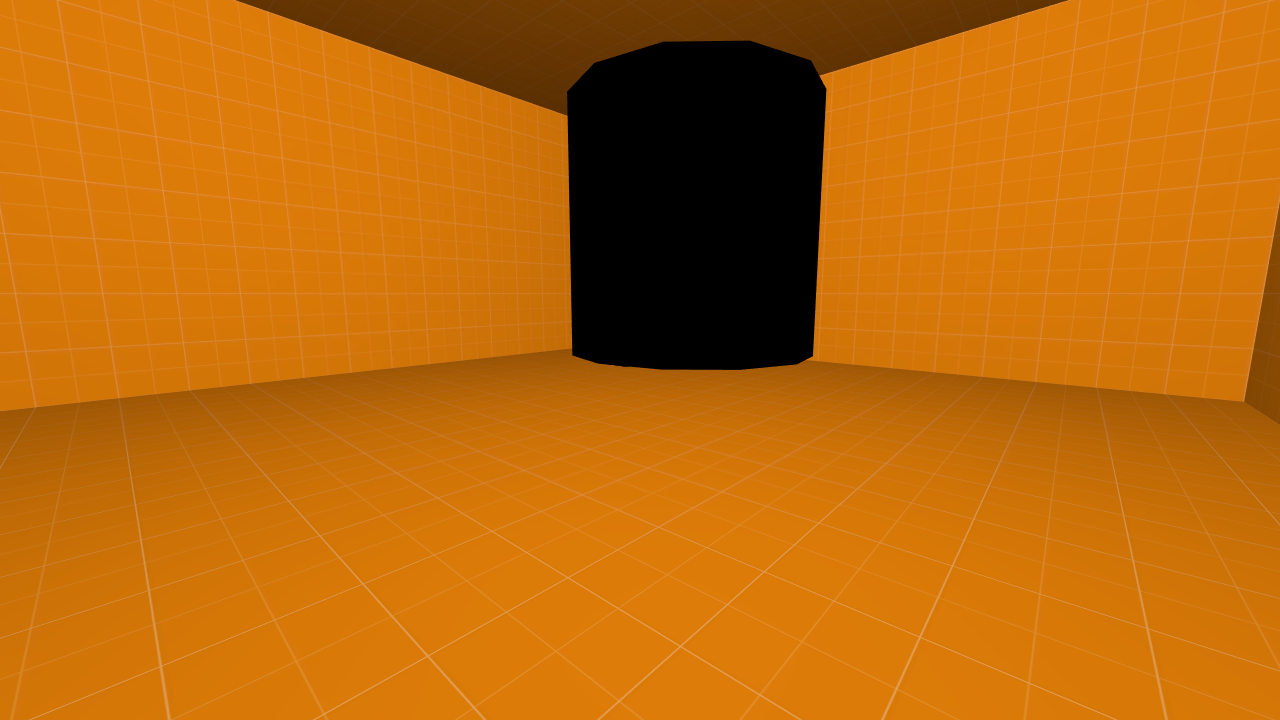
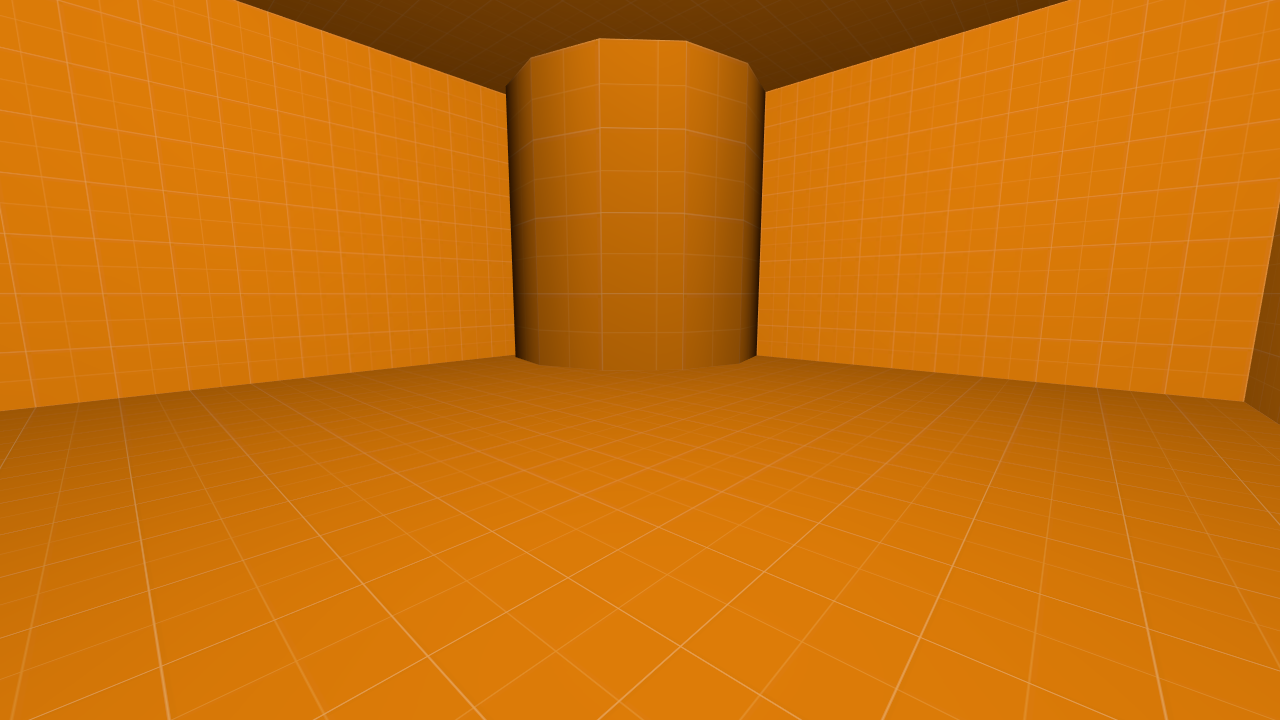
Capture model smoothing before native rotation

Changed region(s): [[0.375, 0.0306, 0.6562, 0.5194]]

diff --git a/scripts/validate_model_smoothing.py b/scripts/validate_model_smoothing.py
@@ -5,6 +5,8 @@ import re
 import struct
 import subprocess
 import sys
+import threading
+import time
 from pathlib import Path
 
 import validate_native_runtime as runtime
@@ -159,6 +161,30 @@ def fixture(args):
         client.close()
 
 
+def capture_rest(output, errors):
+    try:
+        started = time.monotonic()
+        log = output / "cstrike/hammerr-runtime.log"
+        while time.monotonic() - started < 30:
+            if log.exists() and "HAMMERR_MODEL_REST_READY" in log.read_text(
+                errors="replace"
+            ):
+                time.sleep(1)
+                subprocess.run(
+                    ["grim", str(output / "rest.png")], check=True, timeout=5
+                )
+                subprocess.run(
+                    ["grim", "-t", "ppm", str(output / "rest.ppm")],
+                    check=True,
+                    timeout=5,
+                )
+                return
+            time.sleep(0.1)
+        raise TimeoutError("No settled model frame before motion")
+    except (OSError, subprocess.SubprocessError, TimeoutError) as error:
+        errors.append(str(error))
+
+
 def worker(args):
     args.capture_ppm = True
     runtime.OBSERVER = runtime.OBSERVER.replace(
@@ -169,9 +195,16 @@ def worker(args):
         "stage <- 0;", "stage <- 0;\nmodel_started <- false;"
     ).replace(
         '    local player = Entities.FindByClassname(null, "player");',
-        '    local model = Entities.FindByName(null, "smooth_model");\n    if (model != null) printl("HAMMERR_MODEL_YAW " + model.GetAngles().y);\n    if (Time() > 20 && !model_started) { EntFire("smooth_model", "Start"); model_started = true; }\n    local player = Entities.FindByClassname(null, "player");',
+        '    local model = Entities.FindByName(null, "smooth_model");\n    if (model != null) printl("HAMMERR_MODEL_YAW " + model.GetAngles().y);\n    if (Time() > 12 && Time() < 19) printl("HAMMERR_MODEL_REST_READY");\n    if (Time() > 20 && !model_started) { EntFire("smooth_model", "Start"); model_started = true; }\n    local player = Entities.FindByClassname(null, "player");',
     )
+    errors = []
+    capture = threading.Thread(
+        target=capture_rest, args=(args.output, errors), daemon=True
+    )
+    capture.start()
     runtime.worker(args)
+    capture.join(timeout=10)
+    assert not errors and (args.output / "rest.png").exists(), errors
     text = (args.output / "cstrike/hammerr-runtime.log").read_text(errors="replace")
     angles = [
         float(value) for value in re.findall(r"HAMMERR_MODEL_YAW ([\d.eE+-]+)", text)
@@ -186,7 +219,7 @@ def compare(output):
     frames = []
     for name in ["flat", "smooth"]:
         magic, dimensions, maximum, pixels = (
-            (output / name / "game.ppm").read_bytes().split(b"\n", 3)
+            (output / name / "rest.ppm").read_bytes().split(b"\n", 3)
         )
         assert magic == b"P6" and maximum == b"255"
         frames.append((dimensions, pixels))
